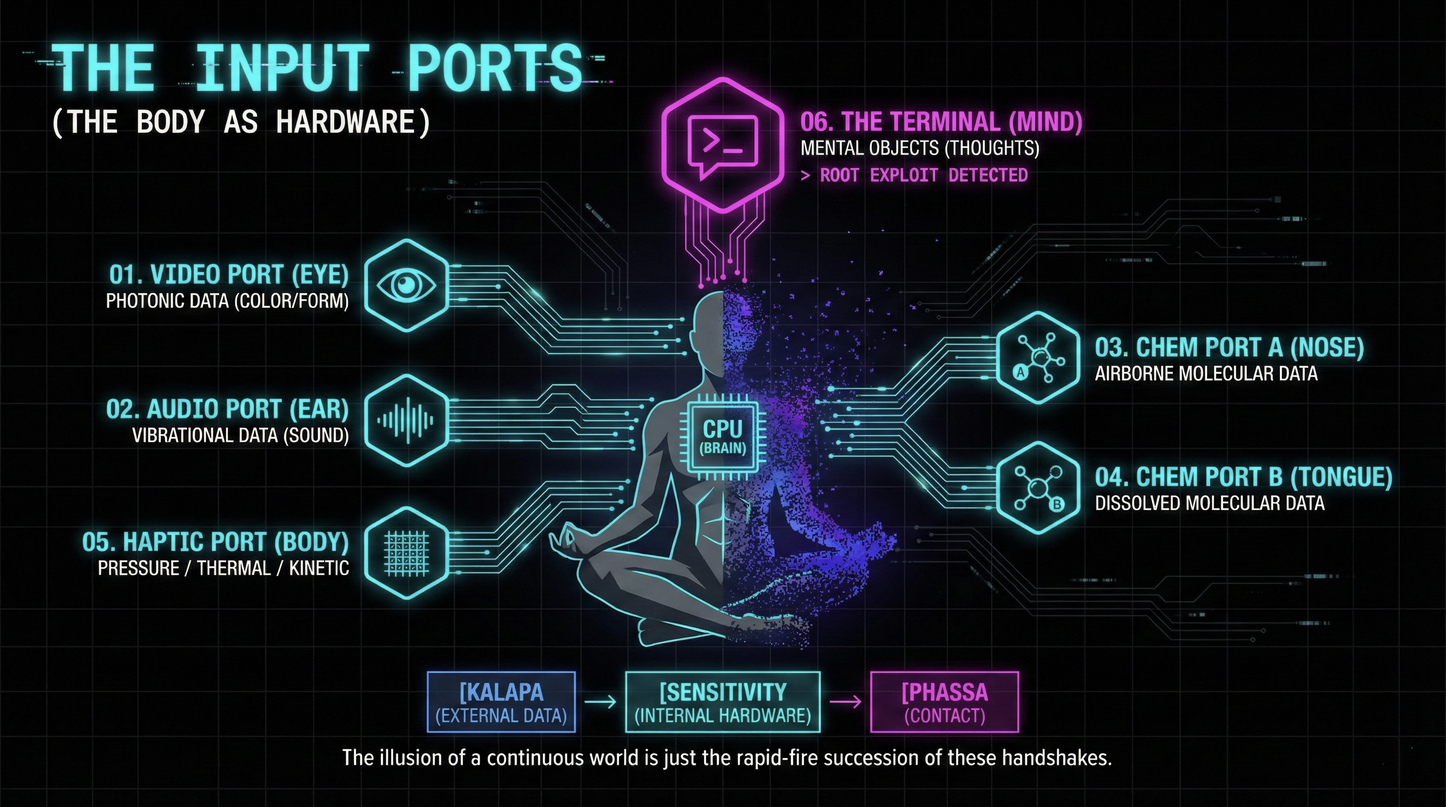
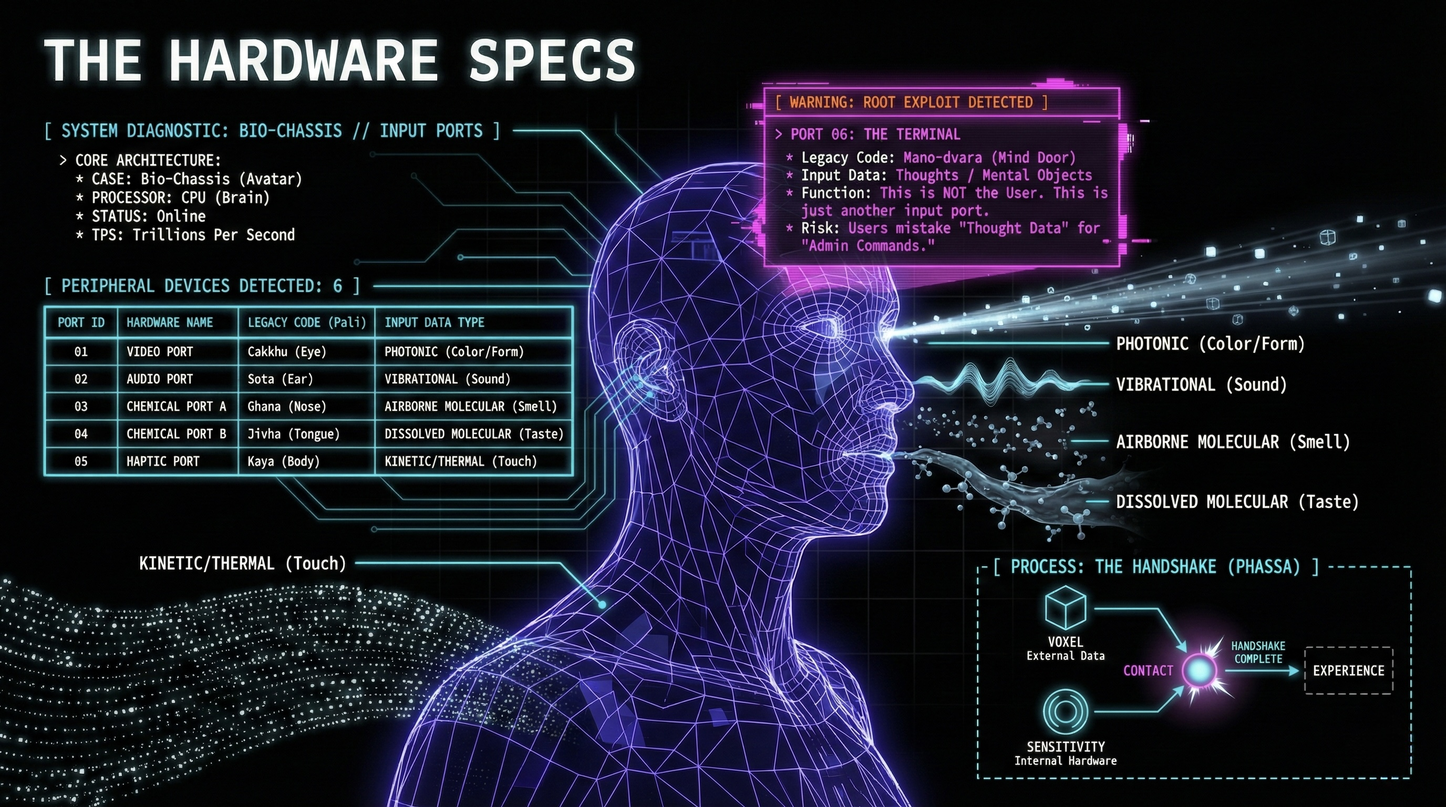
updates to Part 1
Section rewrite with author persona.

diff --git a/src/01_diagnostic/ch01_02_hardware_specs.md b/src/01_diagnostic/ch01_02_hardware_specs.md
@@ -1,20 +1,18 @@
----
-## 1.2 The Hardware Specs: Input Ports (Salayatana)
+## 1.2 The Hardware Specs: Input Ports 
 
 ![Image](/assets/infographics/TPS_IMG_HardwareSpecs.jpg)
 
-We have talked about the machine code. We know the `kalapas` are the voxels of experience. But how does that data get into the system?
+We have talked about the machine code. We know the `kalapas` are actually Voxels (3D data packets of experience). But how does that data actually get into the system?
 
-You can have the best graphics card in the world. It doesn't matter if you don't have a monitor to display it. You need a connection. You need an interface.
+You can have the most powerful graphics card on the market. It doesn't matter if you don't have a monitor to display the render. You need a connection. You need an interface .
 
-In the Legacy Code (the Pali Canon), these are called the *Salayatana*. The translation is "The Six Sense Bases." That sounds mystical. Let's modernize it.
+In the Legacy Code (the Pali Canon), these are called the *Salayatana*. The translation is "The Six Sense Bases." That sounds mystical. It sounds like something you'd hear in a yoga studio. Let's modernize it.
 
-These are your **Input Ports**.
+These are your **Input Ports** .
 
-Think of your body as a computer tower. It creates a protected environment for the CPU (your brain). But the CPU is locked in a dark box. It can't see the outside world. It relies on peripherals to fetch data.
+Think of your **Avatar (Bio-Chassis)** as a computer tower . It creates a protected environment for the CPU (your brain). But the CPU is locked in a dark, silent box. It can't see the outside world. It relies entirely on peripherals to fetch data .
 
-
-The system comes pre-installed with six specific hardware ports:
+The system comes pre-installed with six specific hardware ports :
 
 1.  **The Video Port (Eye):** Receives photonic data (Color/Form).
 2.  **The Audio Port (Ear):** Receives vibrational data (Sound).
@@ -22,26 +20,26 @@ The system comes pre-installed with six specific hardware ports:
 4.  **The Chemical Port B (Tongue):** Receives dissolved molecular data (Taste).
 5.  **The Haptic Port (Body):** Receives pressure, thermal, and kinetic data (Touch).
 
-These first five are obvious. You learned them in kindergarten. But the simulation has a sixth port. This is where the hackers separate themselves from the users.
+These first five are obvious. You learned them in kindergarten. But the simulation has a sixth port. This is where the hackers separate themselves from the casual users .
 
 ### The Sixth Port: The Terminal
 
-The ancients called this the *Mano-dvara*. The "Mind Door." In the West, we made a massive categorization error. We decided the "Mind" was the *User*.
+The ancients called this the *Mano-dvara*. The "Mind Door" . In the West, we made a massive categorization error. We decided the "Mind" was the *User*.
 
-The manual says otherwise. The Mind is just another port. It is Input Port **#6**.
+The manual says otherwise. The Mind is just another port. It is Input Port **#6** .
 
-Think of it like a text terminal or a chat window. It receives a specific type of data stream called "thoughts" or "mental objects."
+Think of it like a text terminal or a chat window. It receives a specific type of data stream called "thoughts" or "mental objects" .
 
-When a memory pops up, that is just a data packet arriving at Port 6. When you hear an internal voice narrating your day, that isn't *you*. That is just an audio file playing through the internal speaker.
+When a memory pops up, that is just a data packet arriving at Port 6. When you hear an internal voice narrating your day, that isn't *you*. That is just an audio file playing through the internal speaker .
 
-This is the root exploit. Most users treat their thoughts as commands from the Admin. They obey every popup window that says "I am sad." A hacker sees it differently. A thought is just data. It arises at the port. It enters the bus. It vanishes.
+This is the root exploit. Most users treat their thoughts as commands from the Admin. They obey every popup window that says "I am sad" or "I am angry." A hacker sees it differently. A thought is just data. It arises at the port. It enters the bus. It vanishes .
 
 ### The Contact Point (The Handshake)
 
-The magic happens when the `kalapa` (the external data) hits the `sensitivity` (the internal hardware).
+The magic happens when the Voxel (the external data) hits the Sensitivity (the internal hardware) .
 
-The Legacy Code calls this *Phassa*, or "Contact." In our terms, this is the **Handshake**.
+The Legacy Code calls this *Phassa*, or "Contact." In our terms, this is the **Handshake** .
 
 The external drive plugs into the USB port. *Click.* Data transfer begins.
 
-This handshake happens trillions of times per second. Eye hits color. Ear hits sound. Mind hits thought. The illusion of a continuous world is just the rapid-fire succession of these handshakes. It is a drumroll so fast it sounds like a hum.
+This handshake happens trillions of times per second (TPS) . Eye hits color. Ear hits sound. Mind hits thought. The illusion of a continuous world is just the rapid-fire succession of these handshakes. It is a drumroll so fast it sounds like a hum .

diff --git a/src/01_diagnostic/00_diagnostic.md b/src/01_diagnostic/00_diagnostic.md
@@ -7,40 +7,45 @@
 
 ### Welcome to the machine room.
 
-Before we can start rewriting code or patching glitches, we have to understand what we are dealing with. You cannot hack a system you do not understand. If you try to gain root access without knowing the architecture, you will just crash the server.
+Before we start rewriting code or patching glitches, we have to understand what we are dealing with. You cannot hack a system you do not understand. If you try to gain root access without knowing the architecture, you will just crash the server.
 
 Most people live entirely in the User Interface. They stare at the screen. They click the pretty icons. They get angry when the spinning wheel of death appears. They blame the internet connection or the hardware. They never think to open the terminal and look at the running processes.
 
 In Part 1, we are popping the hood. We are going to ignore the shiny graphics and look directly at the raw code scrolling past. We need to run a full system diagnostic.
 
-This section is your Installation Wizard. We are going to deconstruct the "Physics Engine" that generates your reality. We will look at how your sensors (your eyes, ears, and mind) take in raw data. Then we will see how the "Render Engine" takes that messy data and stitches it into a convincing 3D movie called *My Life*.
+This section is your Installation Wizard. We are going to deconstruct the "Physics Engine" that generates your reality. We will look at how your sensors (eyes, ears, and mind) take in raw data. Then we will see how the "Render Engine" takes that messy data and stitches it into a convincing 3D movie called *My Life*.
 
-Finally, we are going to hunt down the malware.
+### The Malware Hunt
 
-There is a specific process running in the background. It is a resource hog. It lags the system. It overheats the CPU. It creates a feedback loop that feels like stress, anxiety, and suffering. You call this process "Me."
+Finally, we are going to hunt down the bug.
+
+There is a specific process running in the background. It is a resource hog. It lags the system. It overheats the CPU. It creates a feedback loop that feels like stress, anxiety, and suffering.
+
+You call this process "Me."
 
 We call it the **Self Rootkit**. And it is time to terminate the process.
 
 Grab your flashlight. We are going in.
 
+---
+
 ### System Roadmap: The Installation Wizard
 
 This is your map of the territory. It guides you through the theory (The Chapters) and forces you to stop and verify your progress at specific markers (**Checkpoints**). You cannot proceed to the next level until you pass the test.
 
-### CHAPTER 1: THE PHYSICS ENGINE
-
+**CHAPTER 1: THE PHYSICS ENGINE**
 We look at the hardware specs. We break experience down into pixels (**Voxels**) and refresh rates.
 
-**📍 CHECKPOINT 1: STREAM ANALYSIS** - You will verify you can see the raw data stream.
+**📍 CHECKPOINT 1: STREAM ANALYSIS**
+You will verify you can see the raw data stream.
 
-### CHAPTER 2: THE RENDER ENGINE
-
+**CHAPTER 2: THE RENDER ENGINE**
 We analyze how the system lies to you. We separate the raw input from the "concept" overlay.
 
-**📍 CHECKPOINT 2: SPOTTING THE LAG** - You will test your ability to spot the lag between reality and your thoughts.
+**📍 CHECKPOINT 2: SPOTTING THE LAG**
+You will test your ability to spot the lag between reality and your thoughts.
 
-### CHAPTER 3: THE SELF ROOTKIT
-
+**CHAPTER 3: THE SELF ROOTKIT**
 We isolate the "Self" malware and watch how it infects the data stream with an infinite loop.
 
 #### Let’s run the scan.

diff --git a/src/01_diagnostic/ch01_00_physics_engine.md b/src/01_diagnostic/ch01_00_physics_engine.md
@@ -32,9 +32,9 @@ Look at the diagram above. This is the **Physics Engine** of your reality. It is
 
 ### THE ILLUSION OF SOLIDITY
 
-The critical error most units make is mistaking the **Frontend** for the **Code**.
+The critical error most people make is mistaking the **Frontend** for the **Code**.
 
-You think you are seeing a solid world. But you are actually experiencing a "lazy evaluation". Your brain ignores the complex backend (The Flux) to render a simple frontend (Objects). It does this to save processing power. It is just buffer bloat.
+You think you are seeing a solid world. But you are actually experiencing a **Lazy Evaluation**. Your brain ignores the complex backend (The Flux) to render a simple frontend (Objects). It does this to save processing power. It is just buffer bloat.
 
 We are here to debug that error. By breaking the simulation down into its component parts, we can stop reacting to the "User Interface." We can start interacting with the **Observer Module**.
 
@@ -47,6 +47,6 @@ In this chapter, we will deconstruct the engine piece by piece.
 * **1.3 Three Signatures:** We will identify the three metrics that prove you are in a simulation. We will look at the volatility of the data (**The Flux**), the drag on the system (**Latency**), and the empty variable at the center (**The Null Pointer**).
 * **1.4 Hardcore Ethos:** We will explain why we use this tech stack metaphor. We do not do it to dehumanize you. We do it to give you the precise tools needed to gain Root Access.
 
-**Warning:** This is not philosophy. We are not asking "if" the world is real. We are taking the system apart to see how it handles data. It might feel disorienting at first. That is normal. You have been staring at the optical illusion for a long time.
+> **Warning:** This is not philosophy. We are not asking "if" the world is real. We are taking the system apart to see how it handles data. It might feel disorienting at first. That is normal. You have been staring at the optical illusion for a long time.
 
-Let’s see what this machine is actually made of.
+**Let’s see what this machine is actually made of.**

diff --git a/src/01_diagnostic/ch01_01_system_specs.md b/src/01_diagnostic/ch01_01_system_specs.md
@@ -11,7 +11,7 @@ But standard physics and ancient meditation tech agree on one thing. It isn't.
 
 ### The Physics: The Tick Rate
 
-The "Simulation Hypothesis" is the modern framework for this glitch. It suggests that our reality is not a physical base layer. Instead, it is a computed environment. To understand the machine code, you need to understand the two different ways we diagnose the simulation: The Philosopher and The Engineer.
+The **Simulation Hypothesis** is the modern framework for this glitch. It suggests that our reality is not a physical base layer. Instead, it is a computed environment. To understand the machine code, you need to understand the two different ways we diagnose the simulation: The Philosopher and The Engineer.
 
 **The Philosopher: Nick Bostrom (The Odds)**
 
@@ -23,7 +23,7 @@ If a civilization ever reaches the tech level to run "ancestor simulations" (sim
 
 Then comes Rizwan Virk, a computer scientist from MIT. While Bostrom looks at the probability, Virk looks at the rendering engine.
 
-He argues that you cannot render a universe this complex atom-by-atom. It would crash the server. Any sufficiently complex simulation must adhere to principles of computational efficiency. Virk introduces the concept of "Frustum Culling" or "Lazy Evaluation".
+He argues that you cannot render a universe this complex atom-by-atom. It would crash the server. Any sufficiently complex simulation must adhere to principles of computational efficiency. Virk introduces the concept of "Frustum Culling" or **Lazy Evaluation**.
 
 In a video game like *World of Warcraft*, the computer does not render the world behind your head. It deletes it to save memory. It only renders the pixels you are looking at right now. Virk suggests this mirrors the "Observer Effect" in quantum mechanics. The particle doesn't exist until you measure it. Why? Because the system is optimizing resources.
 
